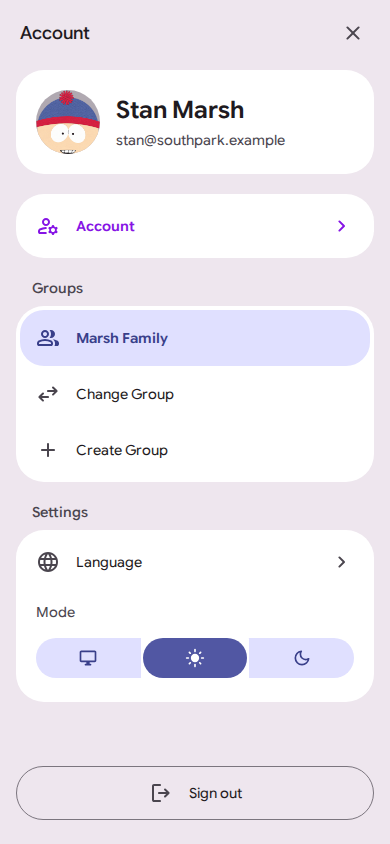
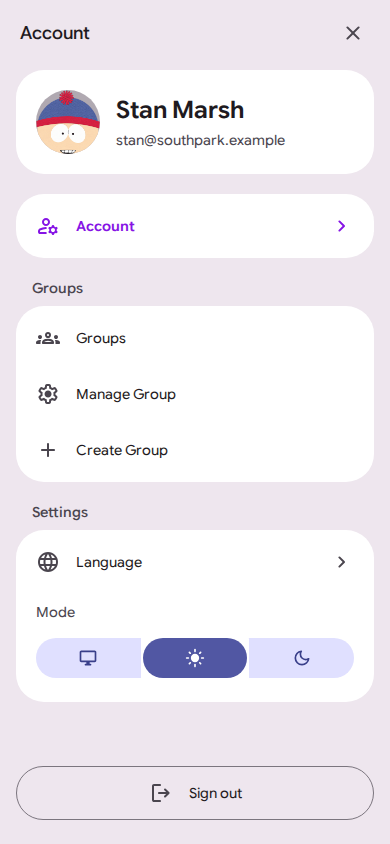
docs: align group examples and screenshots with shared lists

Changed region(s): [[0.0308, 0.3697, 0.9538, 0.4929]]

diff --git a/prisma/seed-readme.ts b/prisma/seed-readme.ts
@@ -265,7 +265,15 @@ async function main() {
             }
             for (const definition of lists) {
                 const listId = `${prefix}${definition.key}`;
-                if (await tx.list.findUnique({ where: { id: listId } })) continue;
+                if (await tx.list.findUnique({ where: { id: listId } })) {
+                    const groupId = `${prefix}${definition.group}`;
+                    await tx.listGroupShare.upsert({
+                        where: { listId_groupId: { listId, groupId } },
+                        create: { listId, groupId },
+                        update: {}
+                    });
+                    continue;
+                }
                 const ownerId = `${prefix}${definition.owner}`;
                 const members = groups
                     .find((g) => g.key === definition.group)!
@@ -278,6 +286,7 @@ async function main() {
                         name: definition.name,
                         ownerId,
                         groupId: `${prefix}${definition.group}`,
+                        groupShares: { create: { groupId: `${prefix}${definition.group}` } },
                         icon: definition.icon,
                         iconColor: definition.color,
                         description: definition.description,

diff --git a/README.md b/README.md
@@ -36,19 +36,20 @@ adapts from a desktop rail to a bottom bar on mobile.
     <img src="./assets/homepage-mobile.png" alt="Marsh Family overview on a phone with bottom navigation and an add-list button" width="25%" />
 </p>
 
-Switch groups to keep gifts for family and friends separate, using the same account.
+Filter the overview by group, or share a list with several groups while keeping
+reservations in sync.
 
-<img src="./assets/friends-desktop.png" alt="South Park Friends wishlists for Stan, Kyle, Kenny and Eric, with the group picker open" />
+<img src="./assets/friends-desktop.png" alt="South Park Friends wishlists for Stan, Kyle, Kenny and Eric, with the group filter open" />
 
 ### Make a wish, plan a gift
 
 Manage your own wishes in a compact text-only list on mobile, approve suggestions,
-browse a friend's list, or change your group, language and theme from the account menu.
+browse a friend's list, or open your groups, language and theme from the account menu.
 
 <p align="center">
     <img src="./assets/my-wishes-mobile.png?v=text-only" alt="Stan's Winter Adventures in the mobile list layout, with owner controls and full-width text" width="32%" />
     <img src="./assets/wishes-mobile.png?v=text-only" alt="Shelly's wishlist in the mobile text-only list layout, with prices, notes and claim controls" width="32%" />
-    <img src="./assets/account-menu-mobile.png" alt="Stan's mobile account menu with group switching, language and theme controls" width="32%" />
+    <img src="./assets/account-menu-mobile.png" alt="Stan's mobile account menu with group management, language and theme controls" width="32%" />
 </p>
 
 List colors carry through the interface in light and dark themes. Mark a favorite
@@ -128,7 +129,14 @@ proxy_busy_buffers_size   256k;
 
 ## Groups
 
-Wishlist has support for multiple wishlist groups. For example, you can have one group for friends and one for family. The wishes on these lists will be completely separate. You can switch between groups using the menu when you click on your profile picture.
+Each list has one owner and can be shared with several groups, such as friends
+and family. Shared lists use the same wishes and reservations, helping prevent
+duplicate gifts. Change visibility in the list's group selection. My Lists shows
+all your own lists; the overview defaults to all your groups and offers a group
+filter without changing a global group selection.
+
+Open Account → Groups to see your memberships, create groups, leave groups or
+open the groups you manage. Your lists and reservations are kept when you leave.
 
 Currently, anyone can create a group. The group creator is automatically added as a "manager" of the group. A Group Manager can invite users to Wishlist and add/remove existing users to the group they manage. The Group Manager can also delete the group. An Admin will have the same permissions as the Group Manager.
 
